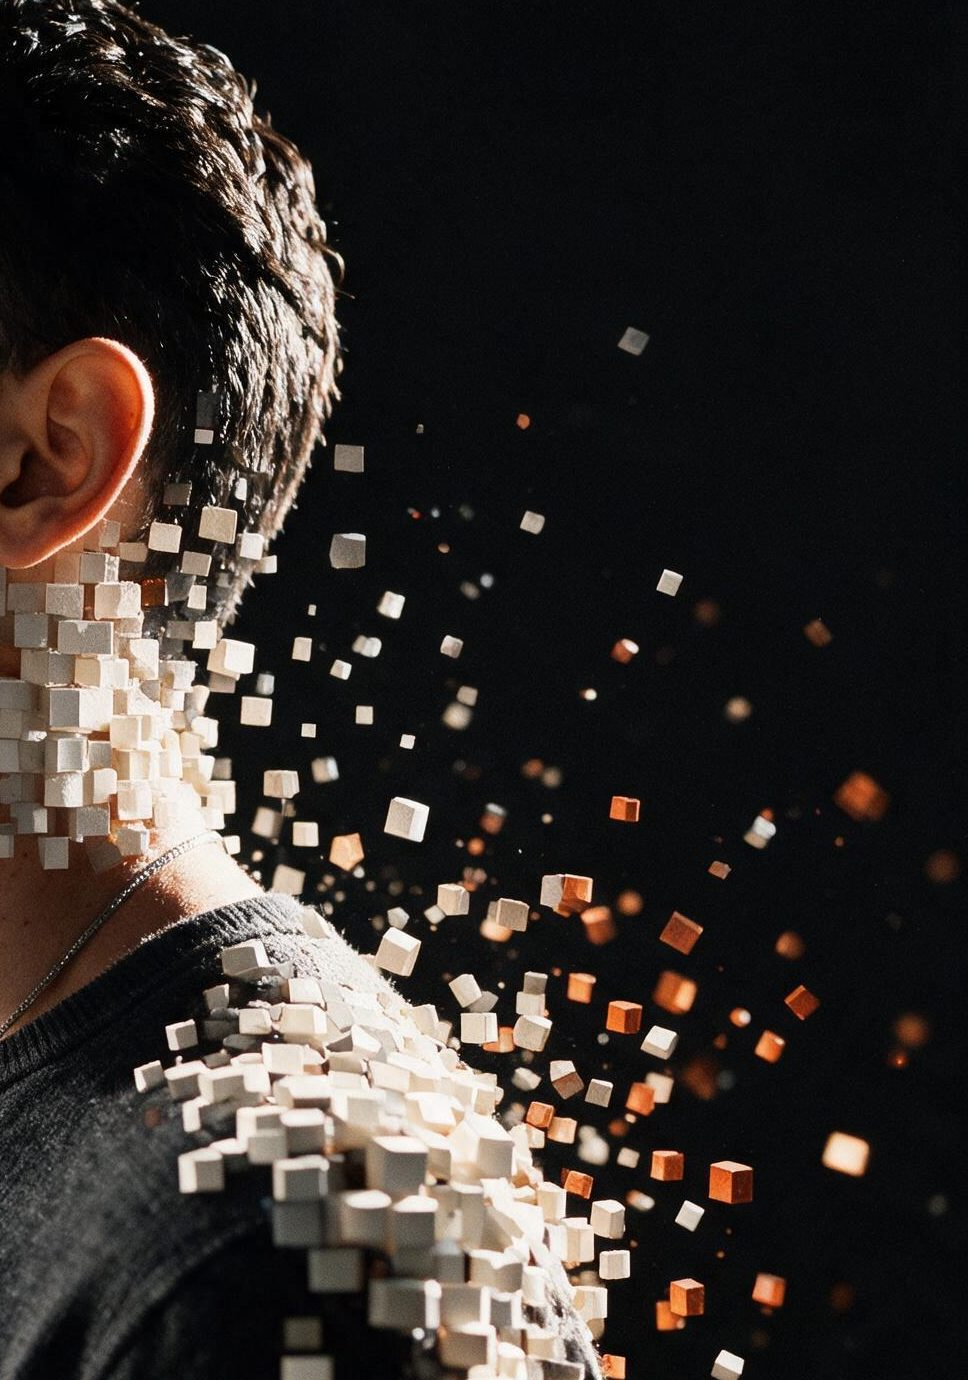
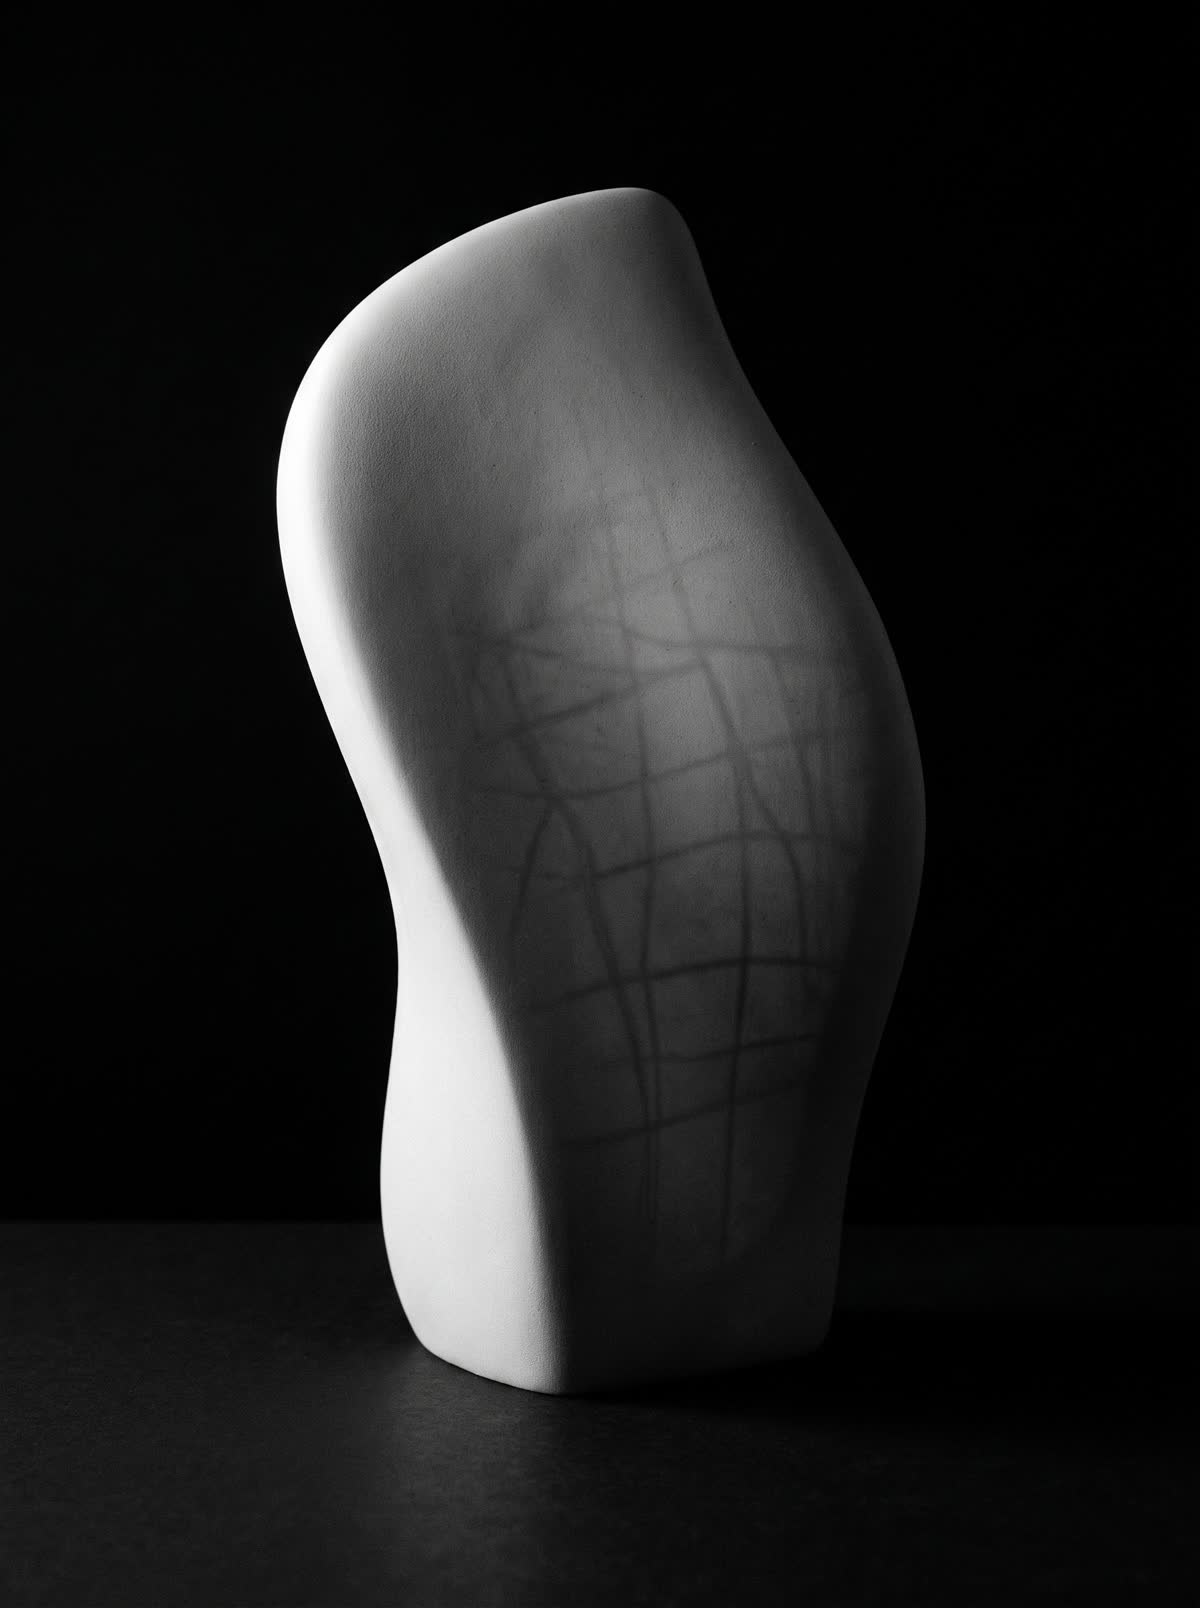
feat(imagens): conjunto proprio para home, work e thoughts
As tres secoes usavam as MESMAS quatro imagens — a mesma peca aparecia
em ate tres lugares. Agora cada uma tem o seu conjunto, e o conjunto
responde ao texto que esta ao lado, nao a uma ideia generica de "tech".

A divisao de cor vem de uma medicao, nao de gosto: so a home aplica
`grayscale(100%)`. Entao a home fica em preto e branco puro — o
territorio da ideia abstrata — e a partir da Work o ambar Solda entra,
que e o territorio do que foi construido de verdade.

home (P&B, objeto escultorico unico sobre preto absoluto)
  estrutura-primeiro  concreto bruto com a armacao atravessando
  estetica-depois     gesso polido com a malha transparecendo sob a pele
  funcao-em-tudo      laminas de vidro empilhadas, cada uma com sua aresta
  A serie tem progressao na ordem em que aparece: bruto, acabado,
  transparente.

work (ambar Solda, uma imagem por stack)
  work-performance  camadas finissimas vistas de topo, ambar na aresta
  work-identidade   solido cuja SOMBRA e mais legivel que ele proprio
  work-automacao    mecanismo de placas com ambar correndo por dentro
  work-infra        involucro selado, uma unica linha de luz numa junta

thoughts (ambar Solda, uma imagem por frase do card)
  ideia-estrutura    armacao exposta, metade ja revestida
  ideia-dependencia  alavancas todas acionadas, posto do operador vazio
  ideia-camada       vidro sobre o componente, quase invisivel
  ideia-vazamento    canal mal juntado perdendo areia por cada fresta
[…]

diff --git a/src/pages/Home.jsx b/src/pages/Home.jsx
@@ -82,13 +82,13 @@ export default function Home() {
                 anima os filhos com `y` e os dois brigariam. Assim a foto e
                 a cobertura deslizam juntas e a legenda fica ancorada. */}
             <Mosaico deriva="-0.14" semente={23}>
-              <img src="/images/estetica-depois.jpg" alt="Silhueta dissolvendo em cubos" style={{ width: '100%', aspectRatio: '2 / 3', objectFit: 'cover', display: 'block', filter: 'grayscale(100%)' }} />
+              <img src="/images/estetica-depois.jpg" alt="Escultura de gesso polido com a malha estrutural transparecendo sob a superficie" style={{ width: '100%', aspectRatio: '2 / 3', objectFit: 'cover', display: 'block', filter: 'grayscale(100%)' }} />
             </Mosaico>
             <span style={{ fontFamily: 'var(--font-mono)', fontSize: '0.8rem', color: '#666', textTransform: 'uppercase' }}>ESTÉTICA DEPOIS (2026)</span>
           </div>
           <div style={{ flex: '1 1 24%', display: 'flex', flexDirection: 'column', gap: '1rem', marginTop: '5vw' }}>
             <Mosaico deriva="-0.26" semente={41}>
-              <img src="/images/funcao-em-tudo.jpg" alt="Paineis de vidro sobrepostos com luz ambar" style={{ width: '100%', aspectRatio: '2 / 3', objectFit: 'cover', display: 'block', filter: 'grayscale(100%)' }} />
+              <img src="/images/funcao-em-tudo.jpg" alt="Laminas de vidro empilhadas, cada uma com sua aresta luminosa" style={{ width: '100%', aspectRatio: '2 / 3', objectFit: 'cover', display: 'block', filter: 'grayscale(100%)' }} />
             </Mosaico>
             <span style={{ fontFamily: 'var(--font-mono)', fontSize: '0.8rem', color: '#666', textTransform: 'uppercase' }}>FUNÇÃO EM TUDO (2026)</span>
           </div>

diff --git a/src/pages/Work.jsx b/src/pages/Work.jsx
@@ -32,19 +32,19 @@ const OBRAS = [
   { n: '01', titulo: ['[ nome do', 'projeto ]'], sub: '[ uma linha dizendo o que o projeto e ]',
     cliente: '[ cliente ]', tipo: '[ tipo de projeto ]', data: '[ mês e ano ]',
     legenda: '[ o problema que existia, e o que a estrutura nova resolveu. duas ou tres linhas. ]',
-    imagem: '/images/estrutura-primeiro.jpg', para: '/contact' },
+    imagem: '/images/work-performance.jpg', para: '/contact' },
   { n: '02', titulo: ['[ nome do', 'projeto ]'], sub: '[ uma linha dizendo o que o projeto e ]',
     cliente: '[ cliente ]', tipo: '[ tipo de projeto ]', data: '[ mês e ano ]',
     legenda: '[ o problema que existia, e o que a estrutura nova resolveu. duas ou tres linhas. ]',
-    imagem: '/images/funcao-em-tudo.jpg', para: '/contact' },
+    imagem: '/images/work-identidade.jpg', para: '/contact' },
   { n: '03', titulo: ['[ nome do', 'projeto ]'], sub: '[ uma linha dizendo o que o projeto e ]',
     cliente: '[ cliente ]', tipo: '[ tipo de projeto ]', data: '[ mês e ano ]',
     legenda: '[ o problema que existia, e o que a estrutura nova resolveu. duas ou tres linhas. ]',
-    imagem: '/images/o-que-construo.jpg', para: '/contact' },
+    imagem: '/images/work-automacao.jpg', para: '/contact' },
   { n: '04', titulo: ['[ nome do', 'projeto ]'], sub: '[ uma linha dizendo o que o projeto e ]',
     cliente: '[ cliente ]', tipo: '[ tipo de projeto ]', data: '[ mês e ano ]',
     legenda: '[ o problema que existia, e o que a estrutura nova resolveu. duas ou tres linhas. ]',
-    imagem: '/images/nucleo.jpg', para: '/contact' },
+    imagem: '/images/work-infra.jpg', para: '/contact' },
 ];
 
 export default function Work() {

diff --git a/src/pages/Thoughts.jsx b/src/pages/Thoughts.jsx
@@ -43,7 +43,7 @@ const CASOS = [
     titulo: 'A estrutura vem antes da estética.',
     resumo:
       'Interface bonita sobre arquitetura frágil não sobrevive ao primeiro pico de volume. O que sustenta a experiência premium é o que ninguém vê.',
-    imagem: '/images/estrutura-primeiro.jpg',
+    imagem: '/images/ideia-estrutura.jpg',
     para: '/work',
   },
   {
@@ -53,7 +53,7 @@ const CASOS = [
     titulo: 'Automação não é economizar tempo. É remover dependência.',
     resumo:
       'O ganho real não está nos minutos poupados. Está em o processo continuar quando a pessoa que sempre fazia aquela etapa não está.',
-    imagem: '/images/funcao-em-tudo.jpg',
+    imagem: '/images/ideia-dependencia.jpg',
     para: '/work',
   },
   {
@@ -63,7 +63,7 @@ const CASOS = [
     titulo: 'IA não é o produto. É a camada.',
     resumo:
       'Quando a inteligência entra como produto separado, alguém precisa aprender a operá-la. Quando entra como camada, ela some dentro do fluxo que já existia.',
-    imagem: '/images/nucleo.jpg',
+    imagem: '/images/ideia-camada.jpg',
     para: '/work',
   },
   {
@@ -73,7 +73,7 @@ const CASOS = [
     titulo: 'Tráfego sem estrutura vaza.',
     resumo:
       'Investir em aquisição antes de a operação aguentar o volume é pagar para descobrir onde o sistema quebra. Aquisição e tecnologia são o mesmo projeto.',
-    imagem: '/images/o-que-construo.jpg',
+    imagem: '/images/ideia-vazamento.jpg',
     para: '/work',
   },
 ];
